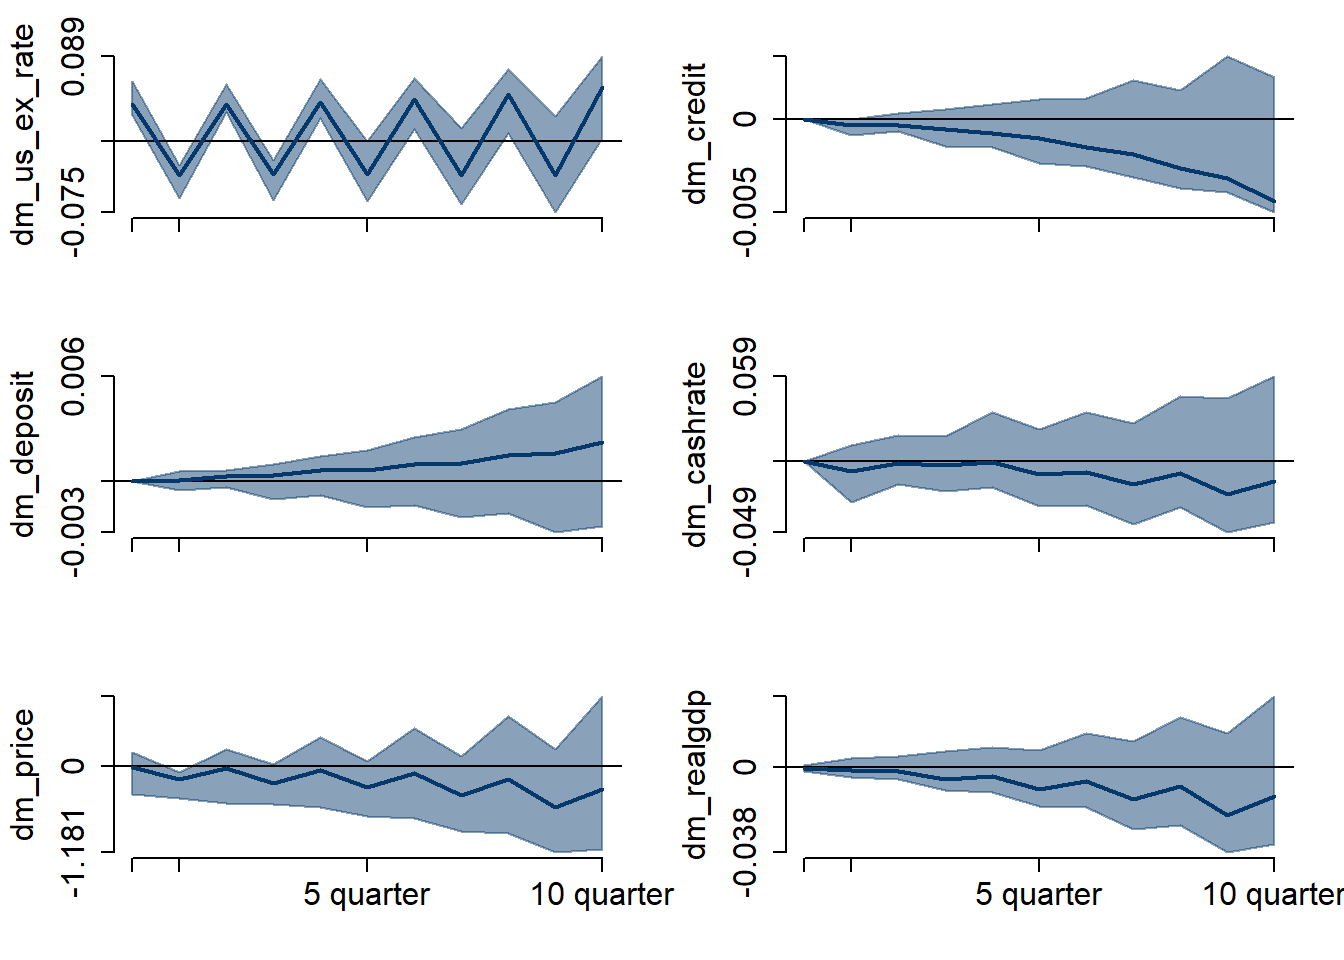
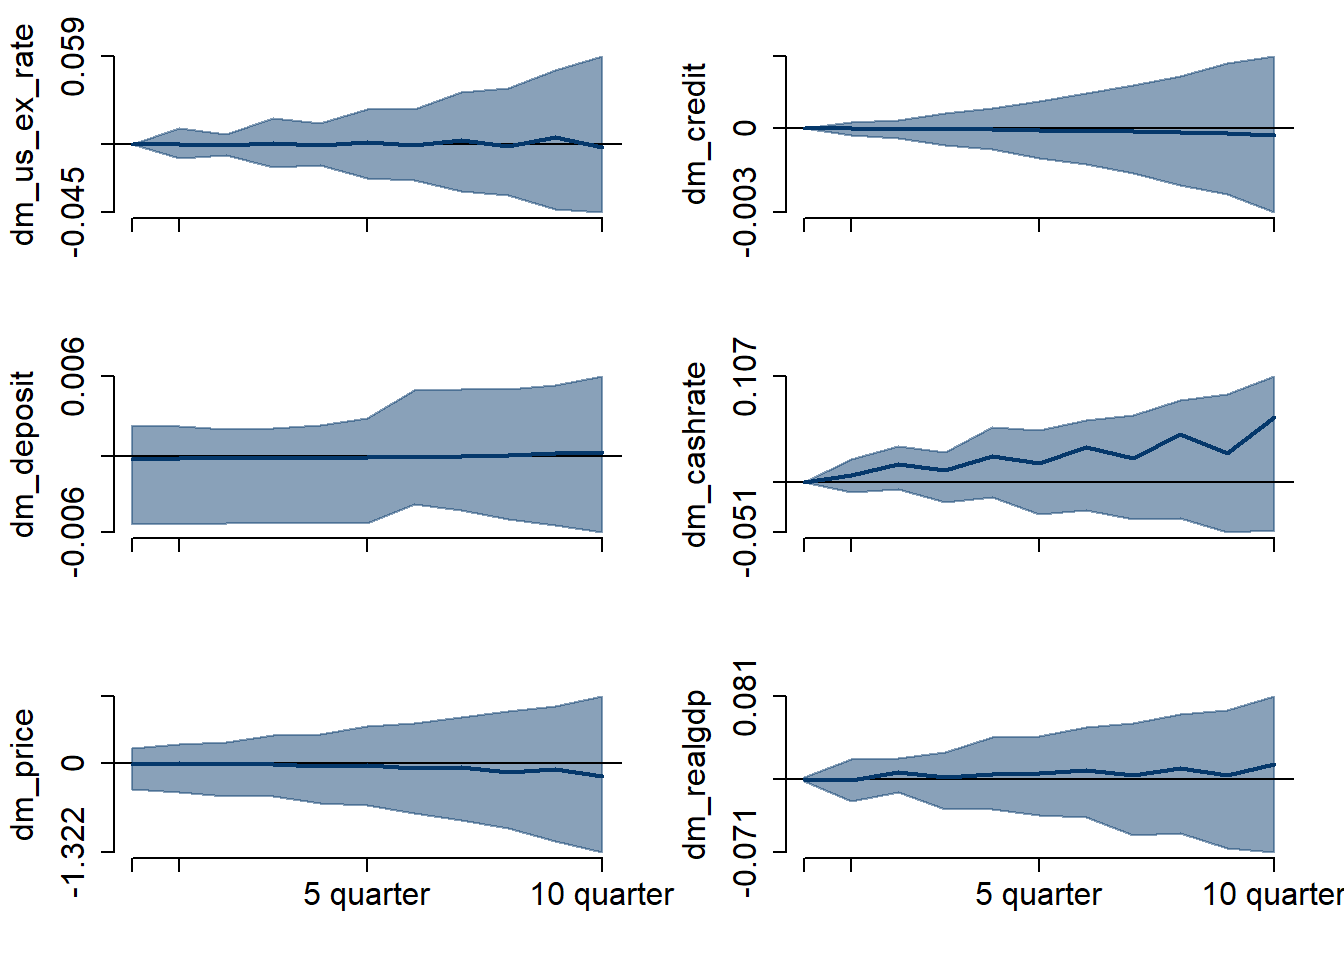
qmd and html update
qmd and html update for presentation

diff --git a/docs/index.html b/docs/index.html
@@ -471,9 +471,9 @@ ex_t \\
 \begin{align*}
 \Theta_0 = B = B_0^{-1} &amp;=
 \begin{bmatrix}
-* &amp; 0 &amp; 0 &amp; 0 &amp; * &amp; 0 &amp; 0 &amp; 0 \\
+* &amp; 0 &amp; 0 &amp; 0 &amp; 0 &amp; 0 &amp; 0 &amp; 0 \\
 * &amp; * &amp; 0 &amp; 0 &amp; 0 &amp; 0 &amp; 0 &amp; 0 \\
-* &amp; * &amp; * &amp; 0 &amp; 0 &amp; 0 &amp; 0 &amp; 0 \\
+* &amp; * &amp; * &amp; 0 &amp; * &amp; 0 &amp; 0 &amp; 0 \\
 * &amp; * &amp; * &amp; * &amp; 0 &amp; 0 &amp; 0 &amp; 0 \\
 * &amp; * &amp; * &amp; * &amp; * &amp; 0 &amp; 0 &amp; 0 \\
 * &amp; * &amp; * &amp; * &amp; * &amp; * &amp; 0 &amp; 0 \\
@@ -483,9 +483,9 @@ ex_t \\
 \\
 \Theta_{\infty} = (B_0-B_1-B_2-B_3-B_4)^{-1} &amp;=
 \begin{bmatrix}
+* &amp; * &amp; * &amp; * &amp; * &amp; * &amp; * &amp; * \\
+* &amp; * &amp; * &amp; * &amp; * &amp; * &amp; * &amp; * \\
 * &amp; * &amp; * &amp; * &amp; 0 &amp; * &amp; * &amp; * \\
-* &amp; * &amp; * &amp; * &amp; * &amp; * &amp; * &amp; * \\
-* &amp; * &amp; * &amp; * &amp; * &amp; * &amp; * &amp; * \\
 * &amp; * &amp; * &amp; * &amp; * &amp; * &amp; * &amp; * \\
 * &amp; * &amp; * &amp; * &amp; * &amp; * &amp; * &amp; * \\
 * &amp; * &amp; * &amp; * &amp; * &amp; * &amp; * &amp; * \\
@@ -514,19 +514,6 @@ ex_t \\
 </section>
 <section id="identiying-assumptions-case-3-7-variables-without-deposit" class="level1">
 <h1>Identiying assumptions: case 3 (7 variables without deposit)</h1>
-<div class="cell">
-<div class="sourceCode cell-code" id="cb5"><pre class="sourceCode r code-with-copy"><code class="sourceCode r"><span id="cb5-1"><a href="#cb5-1" aria-hidden="true" tabindex="-1"></a><span class="co"># dm_us_ex_rate, dm_cashrate are original, others are log transformed.</span></span>
-<span id="cb5-2"><a href="#cb5-2" aria-hidden="true" tabindex="-1"></a>y2          <span class="ot">=</span> <span class="fu">cbind</span>(log_merged_data[,<span class="dv">1</span>],</span>
-<span id="cb5-3"><a href="#cb5-3" aria-hidden="true" tabindex="-1"></a>                    log_merged_data[,<span class="dv">2</span>],</span>
-<span id="cb5-4"><a href="#cb5-4" aria-hidden="true" tabindex="-1"></a>                    log_merged_data[,<span class="dv">3</span>],</span>
-<span id="cb5-5"><a href="#cb5-5" aria-hidden="true" tabindex="-1"></a>                    log_merged_data[,<span class="dv">4</span>],</span>
-<span id="cb5-6"><a href="#cb5-6" aria-hidden="true" tabindex="-1"></a>                        merged_data[,<span class="dv">8</span>],</span>
-<span id="cb5-7"><a href="#cb5-7" aria-hidden="true" tabindex="-1"></a>                    log_merged_data[,<span class="dv">5</span>],</span>
-<span id="cb5-8"><a href="#cb5-8" aria-hidden="true" tabindex="-1"></a>                        merged_data[,<span class="dv">7</span>]</span>
-<span id="cb5-9"><a href="#cb5-9" aria-hidden="true" tabindex="-1"></a>                    )</span>
-<span id="cb5-10"><a href="#cb5-10" aria-hidden="true" tabindex="-1"></a></span>
-<span id="cb5-11"><a href="#cb5-11" aria-hidden="true" tabindex="-1"></a><span class="fu">colnames</span>(y2) <span class="ot">&lt;-</span> <span class="fu">c</span>(<span class="st">"commodity price"</span>, <span class="st">"usgdp"</span>, <span class="st">"GDP"</span>, <span class="st">"CPI"</span>, <span class="st">"Cash rate"</span>, <span class="st">"Bank credit"</span>, <span class="st">"AUD/USD ER"</span>)</span></code><button title="Copy to Clipboard" class="code-copy-button"><i class="bi"></i></button></pre></div>
-</div>
 <p>In case 3, I shut down the deposit channel to see how banks’ credit respond upon cash rate shock. Following equation summarizes the contemporaneous relationships among the variables in this case:</p>
 <p><span class="math display">\[
 B_0y_t =
